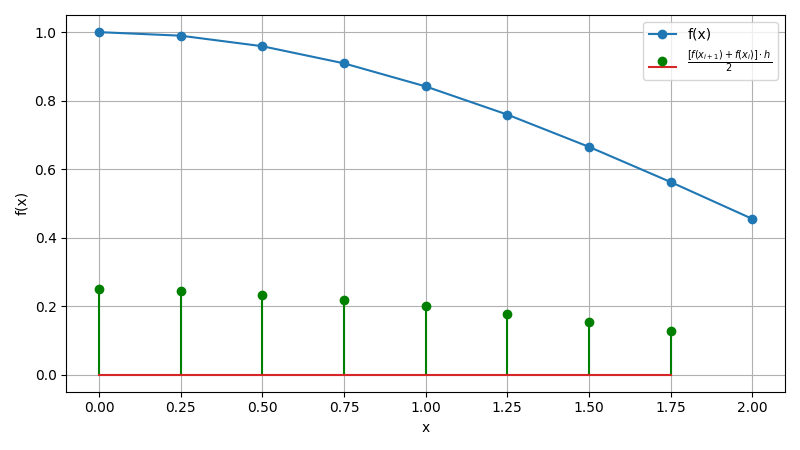
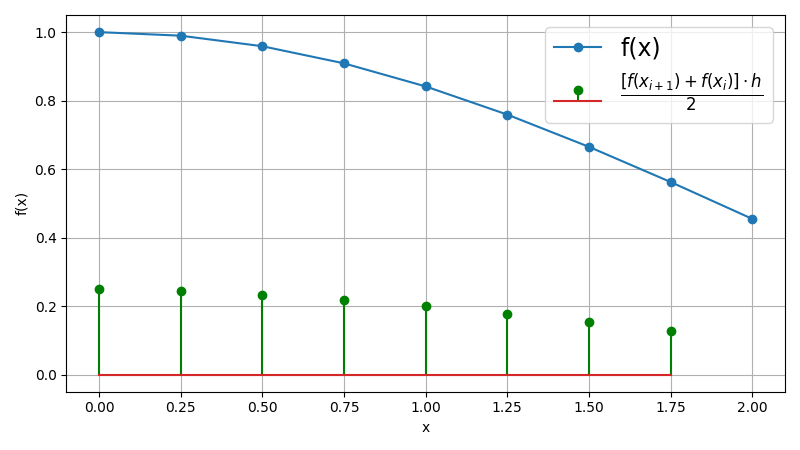
Lab5
Fixed legend size.

Changed region(s): [[0.6875, 0.0311, 0.9688, 0.28], [0.6875, 0.1867, 0.75, 0.28]]

diff --git a/lab5/main.py b/lab5/main.py
@@ -49,8 +49,9 @@ if __name__ == '__main__':
     plt.ylabel('f(x)')
     plt.plot(x, f, marker='o')
     plt.stem(x[:len(int_step)], int_step, 'g')
-    plt.legend(['f(x)', '$\\frac{[f(x_{i+1}) + f(x_{i})] \cdot h}{2}$'])
+    plt.legend(['f(x)', '$\\frac{[f(x_{i+1}) + f(x_{i})] \cdot h}{2}$'], fontsize="17")
     plt.grid()
     plt.tight_layout()
     
+    plt.gcf().set_dpi(100)
     plt.show()
